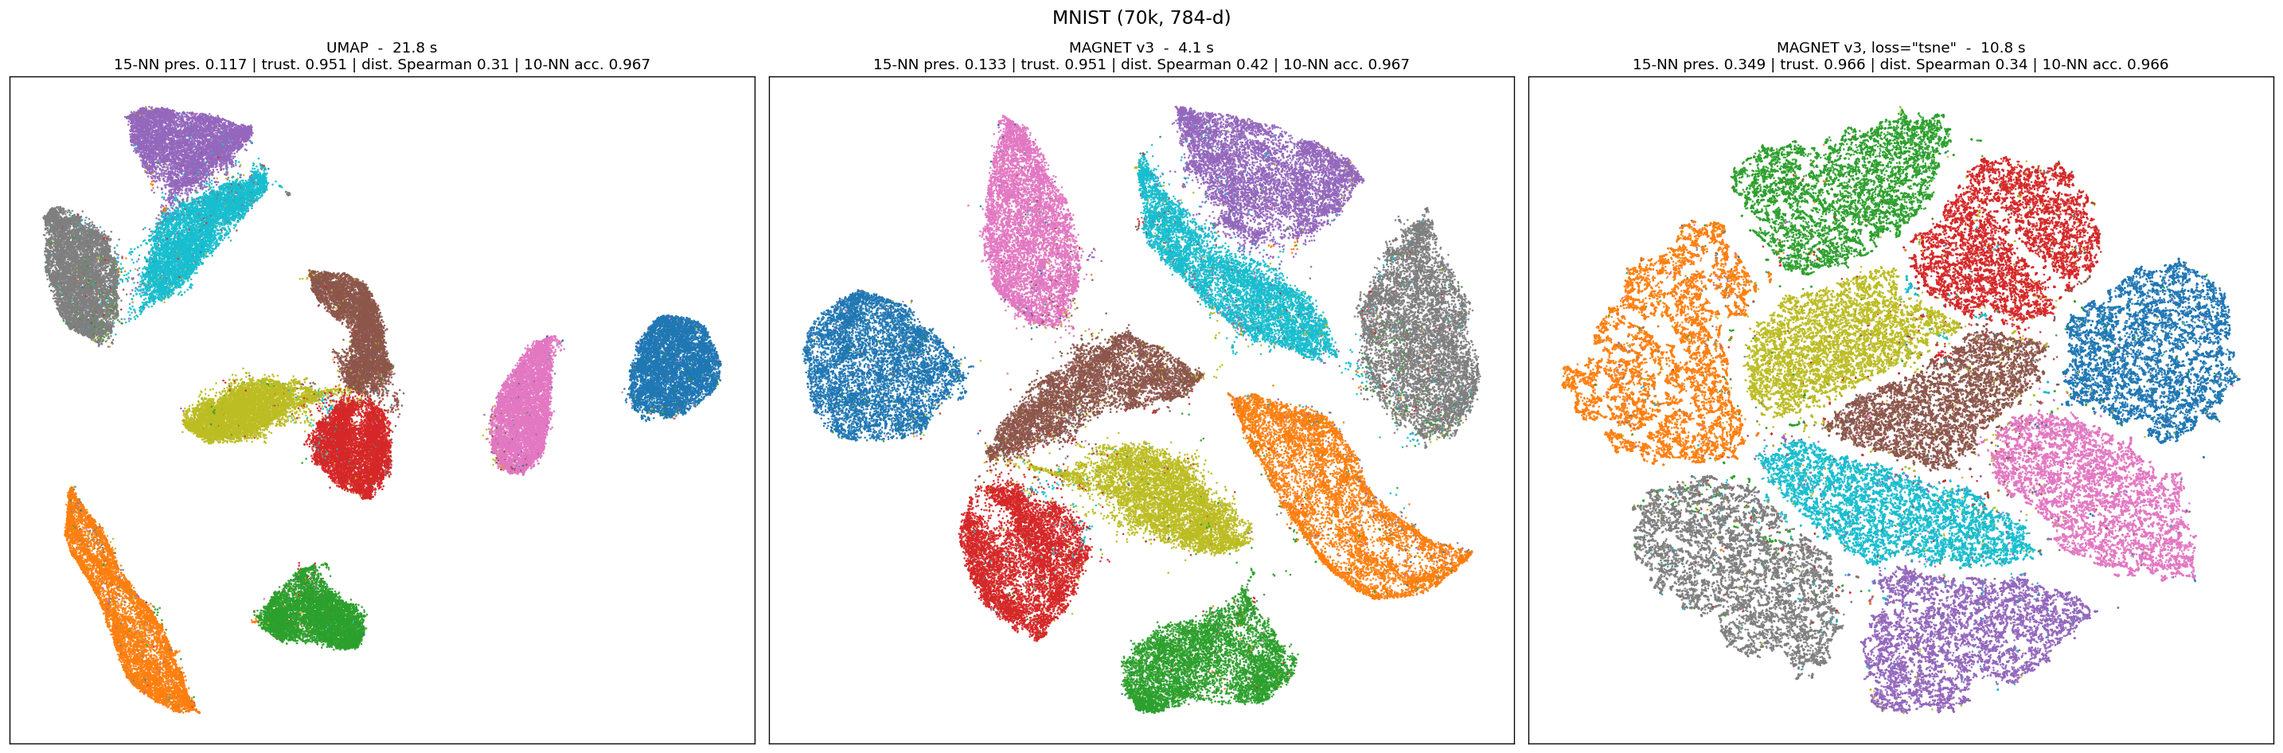
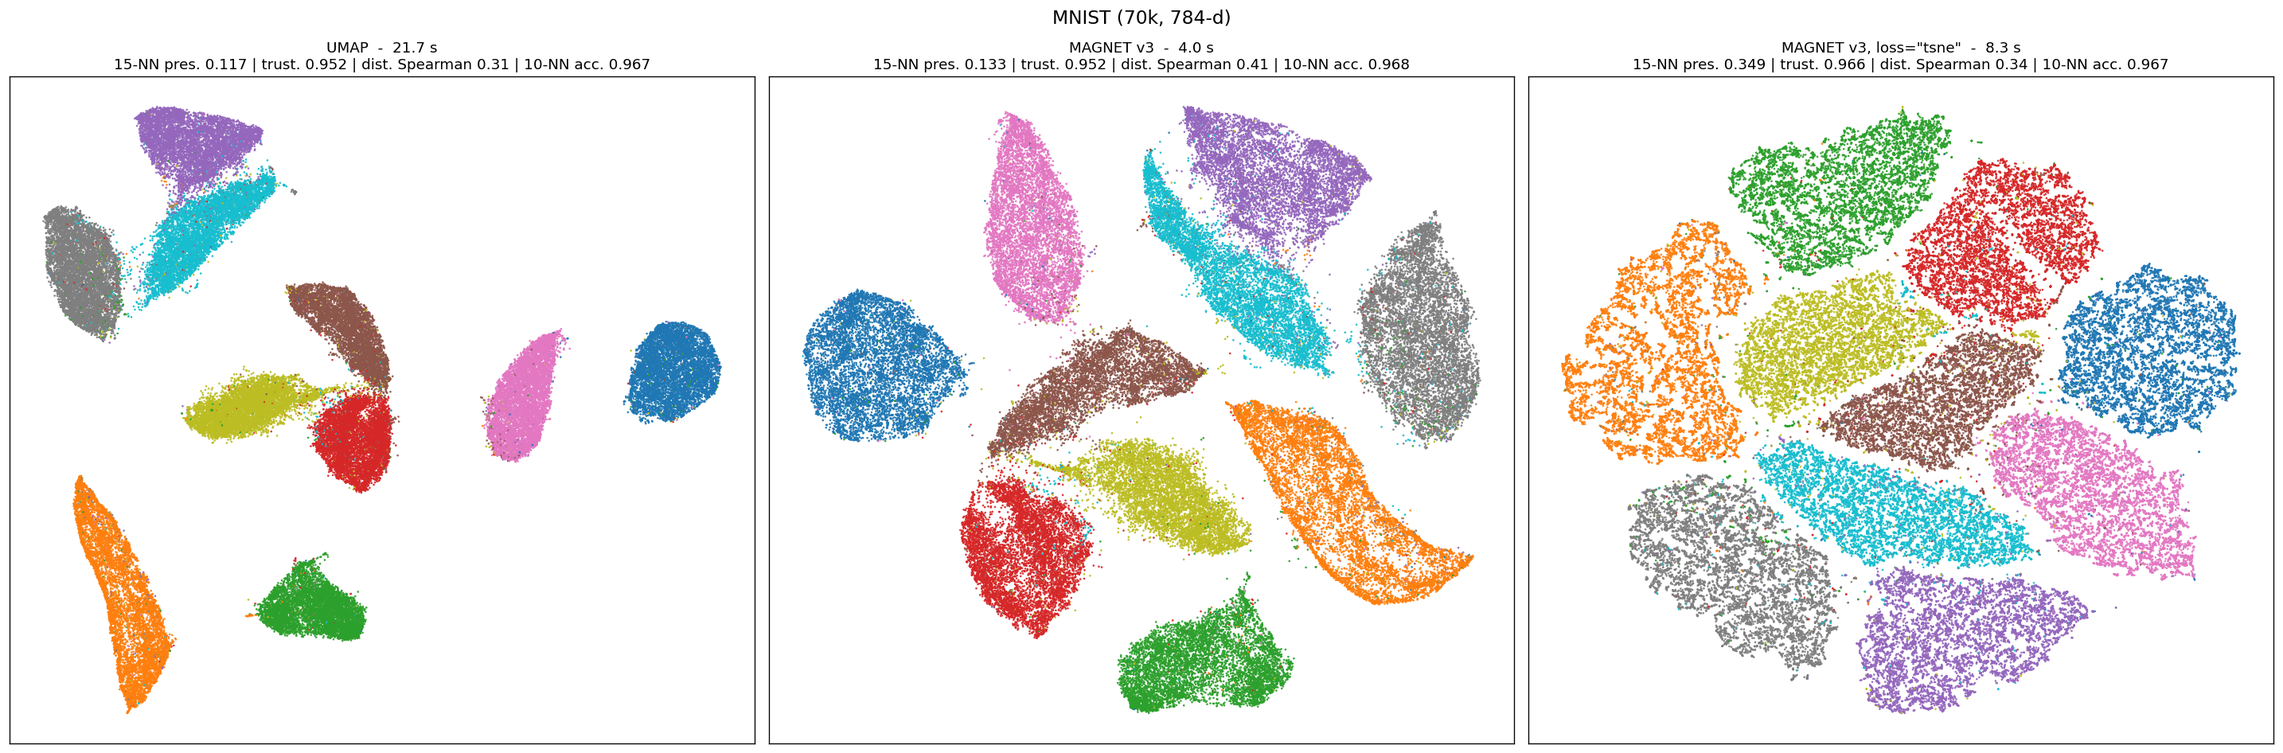
FFT repulsion glue in C++ (reduction-free scatter, spectral products, force gather), spectral mid-near option for graphs (negative result), table and plots refreshed

diff --git a/src/fftrep.cpp b/src/fftrep.cpp
@@ -213,3 +213,144 @@ void mid_spring(arr<float> Y_, arr<int32_t> pairs_, arr<float> grad_, float w, i
         }
     });
 }
+
+
+// ---------------------------------------------------------------------------------------------
+// Padded, reduction-free scatter: points are bucketed by their x-box, threads own disjoint ranges of
+// x-boxes (hence disjoint rows of the grid) so no private grids and no reduction are needed.
+// Output (3, M, M) zero-padded charge grids for the charges (1, x, y).
+arr<float> scatter_padded_2d(arr<float> Y_, float xmin, float ymin, float width, int n_boxes, int n_interp, int M, int n_threads)
+{
+    require(Y_.ndim() == 2 && Y_.shape(1) == 2, "Y must be (n, 2)");
+    const int64_t n = Y_.shape(0);
+    const int N = n_boxes * n_interp;
+    require(n_interp >= 1 && n_interp <= 8 && M >= N && width > 0, "bad grid parameters");
+    const float* Y = Y_.data();
+    arr<float> out({(int64_t)3, (int64_t)M, (int64_t)M});
+    float* O = out.mutable_data();
+    std::fill(O, O + (size_t)3 * M * M, 0.f);
+    const Box B{xmin, ymin, width, n_boxes, n_interp, N};
+    const int nt = (int)std::min<int64_t>(resolve(n_threads), std::max<int64_t>(1, n / 20000));
+    py::gil_scoped_release release;
+    // counting sort of the points by x-box
+    std::vector<int32_t> bxs(n);
+    std::vector<int64_t> count(n_boxes + 1, 0);
+    for (int64_t i = 0; i < n; ++i) {
+        const float ux = (Y[2 * i] - xmin) / width;
+        const int bx = std::min(n_boxes - 1, std::max(0, (int)ux));
+        bxs[i] = bx; ++count[bx + 1];
+    }
+    for (int b = 0; b < n_boxes; ++b) count[b + 1] += count[b];
+    std::vector<int32_t> order(n);
+    { std::vector<int64_t> fill(count.begin(), count.end() - 1); for (int64_t i = 0; i < n; ++i) order[fill[bxs[i]]++] = (int32_t)i; }
+    run_threads(nt, [&](int t) {
+        const int b0 = n_boxes * t / nt, b1 = n_boxes * (t + 1) / nt;   // this thread's x-boxes
+        float wx[8], wy[8]; int bx, by;
+        for (int64_t k = count[b0]; k < count[b1]; ++k) {
+            const int64_t i = order[k];
+            B.locate(Y[2 * i], Y[2 * i + 1], bx, by, wx, wy);
+            const float ch[3] = {1.f, Y[2 * i], Y[2 * i + 1]};
+            for (int a = 0; a < n_interp; ++a) {
+                const int gx = bx * n_interp + a;
+                for (int b = 0; b < n_interp; ++b) {
+                    const int gy = by * n_interp + b;
+                    const float w = wx[a] * wy[b];
+                    for (int c = 0; c < 3; ++c) O[((size_t)c * M + gx) * M + gy] += w * ch[c];
+                }
+            }
+        }
+    });
+    return out;
+}
+
+// Products in the spectral domain: Ph[0] = K1h * Wh[0], Ph[1..3] = K2h * Wh[0..2]; arrays are complex64
+// viewed as float pairs: K (M, Mh, 2), W (3, M, Mh, 2) -> (4, M, Mh, 2)
+arr<float> spectral_products(arr<float> K1h_, arr<float> K2h_, arr<float> Wh_, int n_threads)
+{
+    require(K1h_.ndim() == 3 && K1h_.shape(2) == 2 && Wh_.ndim() == 4 && Wh_.shape(0) == 3 && Wh_.shape(3) == 2, "bad shapes");
+    const int64_t M = K1h_.shape(0), Mh = K1h_.shape(1);
+    require(K2h_.shape(0) == M && K2h_.shape(1) == Mh && Wh_.shape(1) == M && Wh_.shape(2) == Mh, "bad shapes");
+    const float* K1 = K1h_.data(); const float* K2 = K2h_.data(); const float* W = Wh_.data();
+    arr<float> out({(int64_t)4, M, Mh, (int64_t)2});
+    float* O = out.mutable_data();
+    const int64_t L = M * Mh;
+    const int nt = (int)std::min<int64_t>(resolve(n_threads), std::max<int64_t>(1, L / 200000));
+    py::gil_scoped_release release;
+    run_threads(nt, [&](int t) {
+        const int64_t k0 = L * t / nt, k1 = L * (t + 1) / nt;
+        for (int64_t k = k0; k < k1; ++k) {
+            const float ar = K1[2 * k], ai = K1[2 * k + 1], br = W[2 * k], bi = W[2 * k + 1];
+            O[2 * k] = ar * br - ai * bi; O[2 * k + 1] = ar * bi + ai * br;
+            const float cr = K2[2 * k], ci = K2[2 * k + 1];
+            for (int c = 0; c < 3; ++c) {
+                const float wr = W[2 * (c * L + k)], wi = W[2 * (c * L + k) + 1];
+                O[2 * ((c + 1) * L + k)] = cr * wr - ci * wi; O[2 * ((c + 1) * L + k) + 1] = cr * wi + ci * wr;
+            }
+        }
+    });
+    return out;
+}
+
+// Gather from the padded potentials (4, M, M) and compute the forces: returns (sumQ, F (n, 2))
+std::tuple<float, arr<float>> gather_forces_2d(arr<float> Y_, arr<float> phi_, float xmin, float ymin, float width, int n_boxes, int n_interp, int n_threads)
+{
+    require(Y_.ndim() == 2 && Y_.shape(1) == 2 && phi_.ndim() == 3 && phi_.shape(0) == 4, "bad shapes");
+    const int64_t n = Y_.shape(0); const int64_t M = phi_.shape(1);
+    const int N = n_boxes * n_interp;
+    require(phi_.shape(2) == M && M >= N, "phi must be (4, M, M) with M >= N");
+    const float* Y = Y_.data(); const float* phi = phi_.data();
+    const Box B{xmin, ymin, width, n_boxes, n_interp, N};
+    arr<float> F_({n, (int64_t)2});
+    float* F = F_.mutable_data();
+    const int nt = (int)std::min<int64_t>(resolve(n_threads), std::max<int64_t>(1, n / 20000));
+    std::vector<double> partial(nt, 0.0);
+    {
+        py::gil_scoped_release release;
+        run_threads(nt, [&](int t) {
+            float wx[8], wy[8]; int bx, by; double s = 0.0;
+            const int64_t r0 = n * t / nt, r1 = n * (t + 1) / nt;
+            for (int64_t i = r0; i < r1; ++i) {
+                B.locate(Y[2 * i], Y[2 * i + 1], bx, by, wx, wy);
+                float pot[4] = {0.f, 0.f, 0.f, 0.f};
+                for (int a = 0; a < n_interp; ++a) {
+                    const int64_t gx = bx * n_interp + a;
+                    for (int b = 0; b < n_interp; ++b) {
+                        const int64_t gy = by * n_interp + b;
+                        const float w = wx[a] * wy[b];
+                        for (int c = 0; c < 4; ++c) pot[c] += w * phi[((size_t)c * M + gx) * M + gy];
+                    }
+                }
+                s += pot[0];
+                F[2 * i] = pot[1] * Y[2 * i] - pot[2];
+                F[2 * i + 1] = pot[1] * Y[2 * i + 1] - pot[3];
+            }
+            partial[t] = s;
+        });
+    }
+    double tot = 0.0;
+    for (double v : partial) tot += v;
+    return std::make_tuple((float)(tot - (double)n), F_);
+}
+
+
+// bounding box of Y (n, 2): (xmin, ymin, xmax, ymax)
+std::tuple<float, float, float, float> bbox_2d(arr<float> Y_, int n_threads)
+{
+    require(Y_.ndim() == 2 && Y_.shape(1) == 2 && Y_.shape(0) >= 1, "Y must be (n, 2)");
+    const int64_t n = Y_.shape(0); const float* Y = Y_.data();
+    const int nt = (int)std::min<int64_t>(resolve(n_threads), std::max<int64_t>(1, n / 100000));
+    std::vector<float> lo(nt * 2), hi(nt * 2);
+    py::gil_scoped_release release;
+    run_threads(nt, [&](int t) {
+        const int64_t r0 = n * t / nt, r1 = n * (t + 1) / nt;
+        float x0 = Y[2 * r0], x1 = x0, y0 = Y[2 * r0 + 1], y1 = y0;
+        for (int64_t i = r0; i < r1; ++i) {
+            x0 = std::min(x0, Y[2 * i]); x1 = std::max(x1, Y[2 * i]);
+            y0 = std::min(y0, Y[2 * i + 1]); y1 = std::max(y1, Y[2 * i + 1]);
+        }
+        lo[2 * t] = x0; lo[2 * t + 1] = y0; hi[2 * t] = x1; hi[2 * t + 1] = y1;
+    });
+    float xmin = lo[0], ymin = lo[1], xmax = hi[0], ymax = hi[1];
+    for (int t = 1; t < nt; ++t) { xmin = std::min(xmin, lo[2 * t]); ymin = std::min(ymin, lo[2 * t + 1]); xmax = std::max(xmax, hi[2 * t]); ymax = std::max(ymax, hi[2 * t + 1]); }
+    return std::make_tuple(xmin, ymin, xmax, ymax);
+}

diff --git a/magnet/tsne.py b/magnet/tsne.py
@@ -22,8 +22,14 @@ class FFTRepulsion2D:
         self._cache = {}
 
     def _grid(self, Y):
-        lo = Y.min(0) - 1e-3
-        hi = Y.max(0) + 1e-3
+        try:
+            from _magnet import bbox_2d
+            xmin, ymin, xmax, ymax = bbox_2d(Y, self.n_threads)
+            lo = np.array([xmin, ymin]) - 1e-3
+            hi = np.array([xmax, ymax]) + 1e-3
+        except ImportError:
+            lo = Y.min(0) - 1e-3
+            hi = Y.max(0) + 1e-3
         span = float((hi - lo).max())
         n_boxes = int(np.clip(np.ceil(span / self.box_width), self.min_boxes, self.max_boxes))
         width = max(span / n_boxes, 1e-12)
@@ -42,11 +48,30 @@ class FFTRepulsion2D:
             r2 = off[:, None] ** 2 + off[None, :] ** 2
             K1 = (1.0 / (1.0 + r2)).astype(np.float32)
             workers = self.n_threads if self.n_threads and self.n_threads > 0 else -1
-            self._cache = {key: (M, fft.rfft2(K1, workers=workers), fft.rfft2(K1 * K1, workers=workers))}
+            self._cache = {key: (M, np.ascontiguousarray(fft.rfft2(K1, workers=workers), dtype=np.complex64),
+                                 np.ascontiguousarray(fft.rfft2(K1 * K1, workers=workers), dtype=np.complex64))}
         return self._cache[key]
 
     def __call__(self, Y):
-        """Returns (sumQ, repulsive forces (n, 2)) with q_ij = 1 / (1 + d_ij^2), self terms removed."""
+        """Returns (sumQ, repulsive forces (n, 2)) with q_ij = 1 / (1 + d_ij^2), self terms removed.
+        Scatter, spectral products and gather run in C++; the transforms use scipy's pocketfft."""
+        import scipy.fft as fft
+        from _magnet import scatter_padded_2d, spectral_products, gather_forces_2d
+
+        Y = np.ascontiguousarray(Y, dtype=np.float32)
+        xmin, ymin, width, n_boxes = self._grid(Y)
+        workers = self.n_threads if self.n_threads and self.n_threads > 0 else -1
+        M, K1h, K2h = self._kernels(n_boxes, width)
+        W = np.asarray(scatter_padded_2d(Y, xmin, ymin, width, n_boxes, self.n_interp, int(M), self.n_threads))
+        Wh = fft.rfft2(W, axes=(1, 2), workers=workers)
+        Ph = np.asarray(spectral_products(K1h.view(np.float32).reshape(M, -1, 2), K2h.view(np.float32).reshape(M, -1, 2),
+                                          np.ascontiguousarray(Wh).view(np.float32).reshape(3, M, -1, 2), self.n_threads))
+        phi = fft.irfft2(Ph.view(np.complex64).reshape(4, M, -1), s=(M, M), axes=(1, 2), workers=workers)
+        sumQ, F = gather_forces_2d(Y, np.ascontiguousarray(phi, dtype=np.float32), xmin, ymin, width, n_boxes, self.n_interp, self.n_threads)
+        return float(sumQ), np.asarray(F)
+
+    def _numpy_call(self, Y):
+        """Reference implementation (numpy only), kept for tests."""
         import scipy.fft as fft
         from _magnet import interp_scatter, interp_gather
 
@@ -57,7 +82,7 @@ class FFTRepulsion2D:
         M, K1h, K2h = self._kernels(n_boxes, width)
         charges = np.ascontiguousarray(np.column_stack([np.ones(n, np.float32), Y[:, 0], Y[:, 1]]), dtype=np.float32)
         W = np.asarray(interp_scatter(Y, charges, xmin, ymin, width, n_boxes, self.n_interp, self.n_threads))
-        Wh = fft.rfft2(W, s=(M, M), axes=(1, 2), workers=workers)   # zero-padded to the torus
+        Wh = fft.rfft2(W, s=(M, M), axes=(1, 2), workers=workers)
         phi = np.empty((4, N, N), dtype=np.float32)
         phi[0] = fft.irfft2(K1h * Wh[0], s=(M, M), workers=workers)[:N, :N]
         phi[1:] = fft.irfft2(K2h[None] * Wh, s=(M, M), axes=(1, 2), workers=workers)[:, :N, :N]

diff --git a/magnet/__init__.py b/magnet/__init__.py
@@ -92,7 +92,8 @@ class MAGNET:
     mid_source : where the mid-range partners come from: "data" (PaCMAP-style mid-near pairs: the
         second closest of 6 random rows in the data space, n_mid_pairs per point; +30% distance
         correlation on MNIST for -3% 15-NN preservation), "walk" (short random walks on the graph)
-        "hybrid" (random walks of walk_len steps on the two-layer graph made of the kNN edges and the
+        "spectral" (for graphs: mid-near pairs measured in an 8-dimensional spectral embedding of the
+        graph, a diffusion-distance proxy), "hybrid" (random walks of walk_len steps on the two-layer graph made of the kNN edges and the
         mid-near edges, each step jumping along a mid-near edge with probability mid_jump: one
         mechanism for every scale) or "auto" (default: data when a data matrix is given, walks for
         graphs). With loss="tsne" the
@@ -309,6 +310,12 @@ class MAGNET:
             head, tail, epochs_per_sample = self._edge_schedule(P, n_epochs)
             self._mid_pairs_ = None
             self._jump_graph_ = None
+            if self.mid_source == "spectral" and self.mid_weight > 0:
+                # graphs: mid-near pairs measured in a spectral (diffusion) embedding of the graph
+                from .roles import mid_near_pairs
+                S = spectral_init(P, 8, self.random_state, n_threads=self.n_threads)
+                self._mid_pairs_ = mid_near_pairs(np.ascontiguousarray(S, dtype=np.float32), self.n_mid_pairs,
+                                                  random_state=self.random_state or 0, n_threads=self.n_threads)
             if self.mid_source in ("data", "auto", "hybrid") and hasattr(self, "_prepared_") and self.mid_weight > 0:
                 from .roles import mid_near_pairs
                 self._mid_pairs_ = mid_near_pairs(self._prepared_, self.n_mid_pairs, random_state=self.random_state or 0,

diff --git a/benchmarks/graph_midnear_study.py b/benchmarks/graph_midnear_study.py
@@ -1,0 +1,31 @@
+"""Graph-only inputs: does a spectral mid-near term recover global structure? The kNN graph of MNIST
+is passed as a sparse adjacency (no data), the layout is evaluated against the hidden data."""
+import sys, os, time, warnings
+warnings.filterwarnings("ignore")
+HERE = os.path.dirname(os.path.abspath(__file__))
+sys.path.insert(0, os.path.dirname(HERE)); sys.path.insert(0, HERE)
+import numpy as np
+from datasets import mnist
+from metrics import evaluate
+from magnet import MAGNET
+from compare import KEYS
+
+n = int(sys.argv[1]) if len(sys.argv) > 1 else 20000
+X, y, name = mnist(n)
+P = MAGNET(random_state=0).build_graph(X)
+configs = [("walk (graph default)", {}), ("no mid", {"mid_weight": 0.0}), ("spectral pairs w0.1", {"mid_source": "spectral"}),
+           ("spectral pairs w0.3", {"mid_source": "spectral", "mid_weight": 0.3}), ("data pairs (reference)", None)]
+rows = []
+for label, kw in configs:
+    vals = []
+    for s in range(2):
+        t = time.time()
+        if kw is None:
+            Y = MAGNET(random_state=s).fit_transform(X)
+        else:
+            Y = MAGNET(input="graph", random_state=s, **kw).fit_transform(P)
+        r = evaluate(X, Y, y, cache_key=name); r["time"] = time.time() - t; vals.append(r)
+    rows.append((label, vals))
+print("config".ljust(26) + "".join(k[:11].rjust(14) for k in KEYS))
+for label, vals in rows:
+    print(label.ljust(26) + "".join(f"{np.mean([v[k] for v in vals]):14.4f}" for k in KEYS))

diff --git a/src/bindings.cpp b/src/bindings.cpp
@@ -58,6 +58,13 @@ PYBIND11_MODULE(_magnet, m) {
           py::arg("n_pairs") = 5, py::arg("n_cand") = 6, py::arg("seed") = 0, py::arg("n_threads") = -1);
     m.def("mid_spring", &mid_spring, "grad += w (Y_i - mean of partner positions)",
           py::arg("Y"), py::arg("pairs"), py::arg("grad"), py::arg("w"), py::arg("n_threads") = -1);
+    m.def("scatter_padded_2d", &scatter_padded_2d, "Charges (1, x, y) on a zero-padded M x M grid, no reduction",
+          py::arg("Y"), py::arg("xmin"), py::arg("ymin"), py::arg("width"), py::arg("n_boxes"), py::arg("n_interp"), py::arg("M"), py::arg("n_threads") = -1);
+    m.def("spectral_products", &spectral_products, "Kernel-spectrum products of the FFT repulsion",
+          py::arg("K1h"), py::arg("K2h"), py::arg("Wh"), py::arg("n_threads") = -1);
+    m.def("gather_forces_2d", &gather_forces_2d, "Potentials at the points and repulsive forces: (sumQ, F)",
+          py::arg("Y"), py::arg("phi"), py::arg("xmin"), py::arg("ymin"), py::arg("width"), py::arg("n_boxes"), py::arg("n_interp"), py::arg("n_threads") = -1);
+    m.def("bbox_2d", &bbox_2d, "Bounding box of a (n, 2) array", py::arg("Y"), py::arg("n_threads") = -1);
     m.def("tsne_update", &tsne_update, "Fused gains / momentum / position update / recentring",
           py::arg("Y"), py::arg("update"), py::arg("gains"), py::arg("grad"), py::arg("lr"), py::arg("momentum"),
           py::arg("n_threads") = -1);

diff --git a/src/layout.hpp b/src/layout.hpp
@@ -91,3 +91,9 @@ arr<int32_t> mid_near_pairs_sparse(arr<int32_t> indptr, arr<int32_t> indices, ar
                                    int n_pairs, int n_cand, uint64_t seed, int n_threads);
 
 void mid_spring(arr<float> Y, arr<int32_t> pairs, arr<float> grad, float w, int n_threads);
+
+arr<float> scatter_padded_2d(arr<float> Y, float xmin, float ymin, float width, int n_boxes, int n_interp, int M, int n_threads);
+arr<float> spectral_products(arr<float> K1h, arr<float> K2h, arr<float> Wh, int n_threads);
+std::tuple<float, arr<float>> gather_forces_2d(arr<float> Y, arr<float> phi, float xmin, float ymin, float width, int n_boxes, int n_interp, int n_threads);
+
+std::tuple<float, float, float, float> bbox_2d(arr<float> Y, int n_threads);

diff --git a/benchmarks/scaling.py b/benchmarks/scaling.py
@@ -34,7 +34,11 @@ def main():
     base_rss = rss_gb()
     phases = {}
     t0 = time.time()
-    if method == "magnet":
+    if method == "magnet_tsne":
+        from magnet import MAGNET
+        m = MAGNET(loss="tsne", random_state=0, verbose=True)
+        t = time.time(); Y = m.fit_transform(X); phases["fit_total"] = time.time() - t
+    elif method == "magnet":
         from magnet import MAGNET
         m = MAGNET(random_state=0)
         t = time.time(); P = m.build_graph(X); phases["knn+graph"] = time.time() - t

diff --git a/README.md b/README.md
@@ -10,7 +10,7 @@ repulsion is estimated.
 * `loss="umap"` (default): negative sampling, lock-free multithreaded SGD. **MNIST 70k in 4.2 s**
   against 18 s for UMAP, better neighbourhood preservation and a distance correlation of 0.42
   against 0.30: the best global structure of the seven methods benchmarked.
-* `loss="tsne"`: exact repulsion over all pairs through FFT interpolation. **MNIST 70k in 12 s**
+* `loss="tsne"`: exact repulsion over all pairs through FFT interpolation. **MNIST 70k in 8.4 s**
   against 102 s for openTSNE and 196 s for scikit-learn's t-SNE, with the same neighbourhood
   preservation as those two, three times that of UMAP in less time.
 * 1M points in 55 s and 3 GB. Native NN-descent (1.2 s for 70k x 784), spectral initialisation by
@@ -101,7 +101,7 @@ UMAP, openTSNE, PaCMAP, TriMap and scikit-learn's t-SNE is in [benchmarks/BENCHM
 |---|---|---|---|---|---|---|
 | **MAGNET** | **4.2 s** | 0.132 | 0.952 | **0.415** | **0.644** | 0.967 |
 | MAGNET, `late_exaggeration=1.5` (compact preset) | 4.2 s | 0.128 | 0.952 | 0.385 | 0.636 | **0.968** |
-| **MAGNET `loss="tsne"`** | 11.7 s | 0.349 | 0.966 | 0.346 | 0.627 | 0.966 |
+| **MAGNET `loss="tsne"`** | 8.4 s | 0.349 | 0.966 | 0.348 | 0.627 | 0.966 |
 | UMAP 0.5.11 | 18.2 s | 0.116 | 0.951 | 0.300 | 0.607 | 0.967 |
 | openTSNE 1.0.4 | 102.5 s | 0.347 | **0.968** | 0.330 | 0.619 | 0.965 |
 | PaCMAP | 24.8 s | 0.093 | 0.946 | 0.307 | 0.614 | **0.976** |
@@ -126,6 +126,11 @@ UMAP, openTSNE, PaCMAP, TriMap and scikit-learn's t-SNE is in [benchmarks/BENCHM
 | 250k | 16 s | 55 s | 0.8 / 3.0 GB |
 | 500k | 30 s | 85 s | 1.6 / 5.1 GB |
 | 1M | 55 s | | 3.1 GB |
+
+`loss="tsne"` on the same data: 17 s at 250k and 56 s at 1M points (600 iterations; at 1M the
+attraction pass over the 40M edges and the position update dominate, the FFT repulsion step costs
+0.1 s). The scatter, spectral products and gather of that step run in C++; the transforms use
+scipy's pocketfft, which was never the bottleneck.
 
 `transform()` on MNIST (fit 60k, transform 10k): 0.6 s and 10-NN accuracy 0.962 against 14.8 s and
 0.956 for UMAP.
@@ -181,7 +186,9 @@ mechanism for every scale on paper, but each walk step after a mid-range jump di
 local structure and dilutes the inter-cluster signal (distance correlation 0.39 against 0.42 on
 MNIST, 0.68 against 0.71 on Fashion-MNIST, local unchanged). A per-node diffusion scale for the
 mid-range walks (`mid_scale="spread"` or `"rolewalk"`) changes nothing measurable on MNIST: the mid-range term itself matters (distance correlation 0.35 against
-0.29 without it) but not its per-node length. What did make the cut: `repulsion_strength=2` (+8%
+0.29 without it) but not its per-node length. For graph inputs, mid-near pairs measured in an 8-d
+spectral embedding (`mid_source="spectral"`) lose to the random walks (0.31 against 0.34 on the kNN
+graph of MNIST evaluated against the hidden data): walks stay the default for graphs. What did make the cut: `repulsion_strength=2` (+8%
 neighbourhood preservation, nothing lost), the centroid placement of disconnected components, PCA
 initialisation for the exact-repulsion mode, PaCMAP-style mid-near pairs in place of random walks for
 data inputs (distance correlation +30% on MNIST, +25% on Fashion-MNIST, for 3% of 15-NN preservation),

diff --git a/benchmarks/BENCHMARK.md b/benchmarks/BENCHMARK.md
@@ -9,7 +9,7 @@ Local structure: 15-NN preservation (fraction of each point's 15 nearest neighbo
 | method | time (s) | 15-NN pres. | trust. | dist. Spearman | triplet acc. | 10-NN acc. | compactness* |
 |---|---|---|---|---|---|---|---|
 | MAGNET (SGD, default) | **4.2** | 0.132 | 0.952 | **0.415** | **0.644** | 0.967 | 0.448 |
-| MAGNET (loss="tsne") | 11.7 | 0.349 | 0.966 | 0.346 | 0.627 | 0.966 | 0.347 |
+| MAGNET (loss="tsne") | 9.2 | 0.349 | 0.966 | 0.348 | 0.627 | 0.966 | 0.347 |
 | UMAP 0.5.11 | 18.2 | 0.116 | 0.951 | 0.300 | 0.607 | 0.967 | 0.520 |
 | openTSNE 1.0.4 | 102.5 | 0.347 | 0.968 | 0.330 | 0.619 | 0.965 | 0.347 |
 | PaCMAP | 24.8 | 0.093 | 0.946 | 0.307 | 0.614 | **0.976** | **0.579** |
@@ -21,7 +21,7 @@ Local structure: 15-NN preservation (fraction of each point's 15 nearest neighbo
 | method | time (s) | 15-NN pres. | trust. | dist. Spearman | triplet acc. | 10-NN acc. | compactness* |
 |---|---|---|---|---|---|---|---|
 | MAGNET (SGD, default) | **4.2** | 0.152 | 0.975 | **0.707** | **0.775** | 0.782 | 0.160 |
-| MAGNET (loss="tsne") | 11.6 | 0.323 | 0.980 | 0.701 | 0.775 | 0.814 | 0.101 |
+| MAGNET (loss="tsne") | 9.1 | 0.324 | 0.981 | 0.700 | 0.775 | 0.815 | 0.101 |
 | UMAP 0.5.11 | 15.0 | 0.131 | 0.972 | 0.581 | 0.730 | 0.772 | 0.195 |
 | openTSNE 1.0.4 | 98.2 | 0.323 | **0.983** | 0.617 | 0.732 | 0.817 | 0.120 |
 | PaCMAP | 24.2 | 0.099 | 0.971 | 0.581 | 0.729 | 0.773 | **0.209** |
@@ -33,7 +33,7 @@ Local structure: 15-NN preservation (fraction of each point's 15 nearest neighbo
 | method | time (s) | 15-NN pres. | trust. | dist. Spearman | triplet acc. | 10-NN acc. | compactness* |
 |---|---|---|---|---|---|---|---|
 | MAGNET (SGD, default) | **1.3** | 0.124 | 0.750 | 0.033 | 0.523 | 0.512 | **-0.081** |
-| MAGNET (loss="tsne") | 5.4 | 0.182 | **0.776** | 0.109 | 0.541 | 0.527 | -0.094 |
+| MAGNET (loss="tsne") | 4.4 | 0.184 | **0.776** | 0.110 | 0.541 | 0.526 | -0.090 |
 | UMAP 0.5.11 | 5.9 | 0.111 | 0.739 | 0.001 | 0.521 | 0.512 | -0.096 |
 | openTSNE 1.0.4 | 38.8 | 0.187 | 0.772 | 0.106 | 0.542 | **0.535** | -0.086 |
 | PaCMAP | 6.6 | 0.057 | 0.683 | -0.086 | 0.499 | 0.440 | -0.101 |
@@ -45,7 +45,7 @@ Local structure: 15-NN preservation (fraction of each point's 15 nearest neighbo
 | method | time (s) | 15-NN pres. | trust. | dist. Spearman | triplet acc. | 10-NN acc. | compactness* |
 |---|---|---|---|---|---|---|---|
 | MAGNET (SGD, default) | **1.1** | 0.047 | 0.971 | **0.691** | **0.728** |  |  |
-| MAGNET (loss="tsne") | 3.1 | **0.125** | 0.974 | 0.430 | 0.662 |  |  |
+| MAGNET (loss="tsne") | 2.5 | **0.126** | 0.974 | 0.505 | 0.678 |  |  |
 | UMAP 0.5.11 | 2.3 | 0.045 | 0.971 | 0.229 | 0.578 |  |  |
 | openTSNE 1.0.4 | 19.4 | 0.109 | 0.975 | 0.382 | 0.646 |  |  |
 | PaCMAP | 4.1 | 0.033 | 0.971 | 0.666 | 0.720 |  |  |
